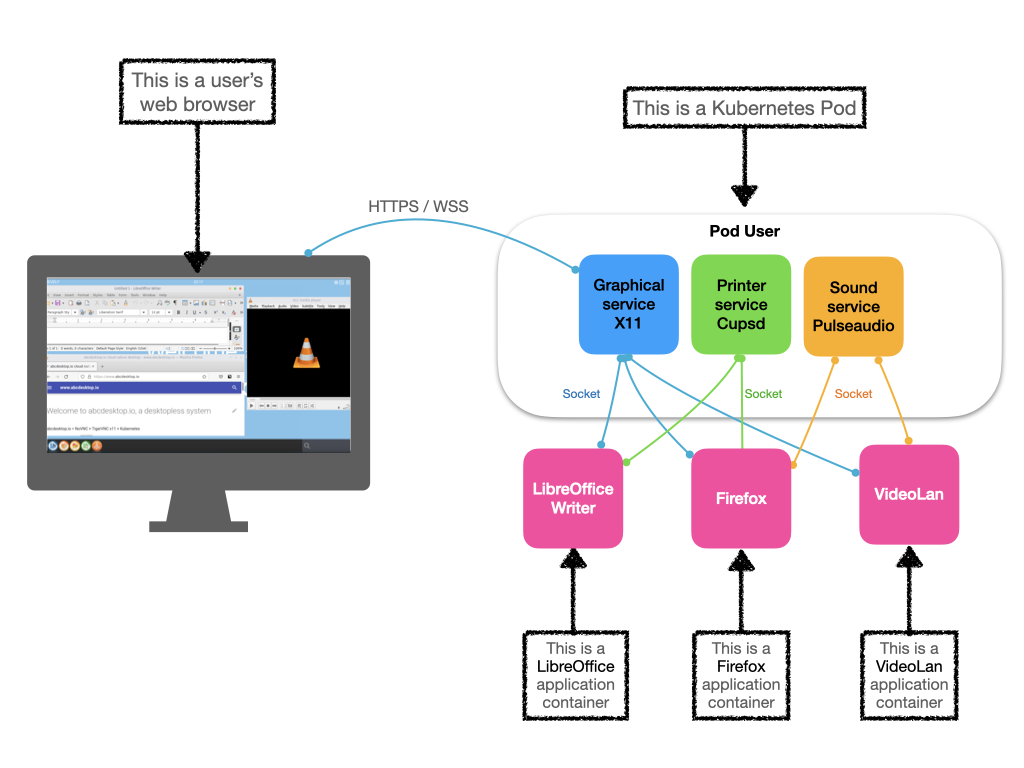
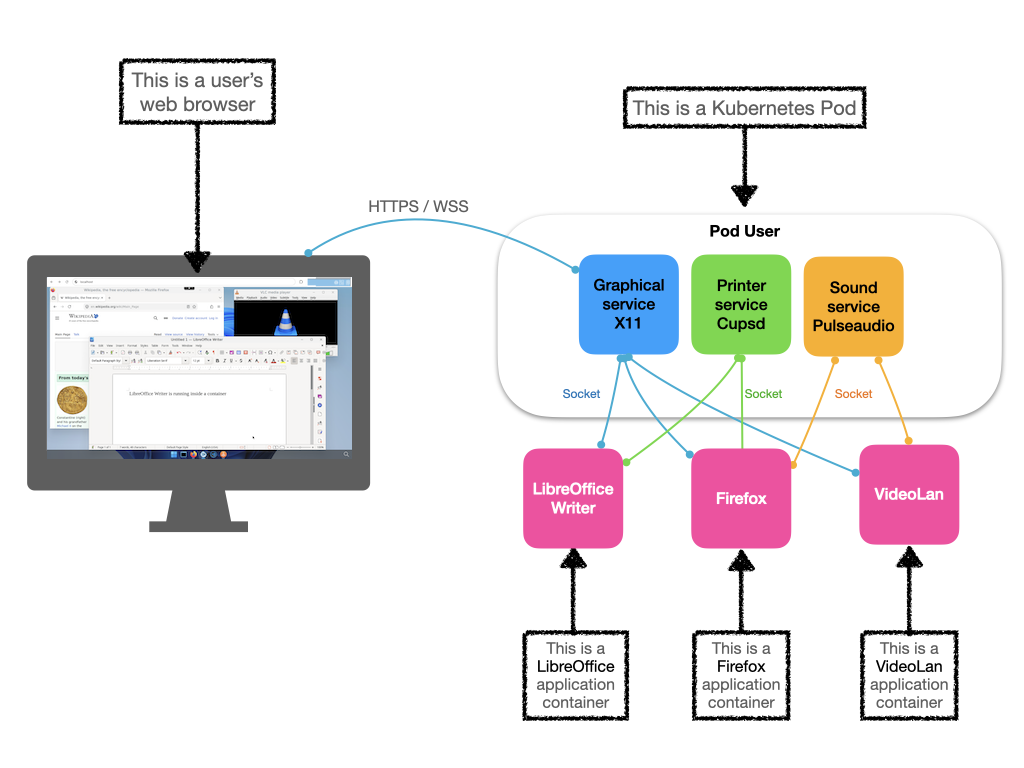
update for 4.4

Changed region(s): [[0.0312, 0.3438, 0.3438, 0.625]]

diff --git a/opsdocs/docs/index.md b/opsdocs/docs/index.md
@@ -34,7 +34,7 @@ This flexible working environment simplifies usage like
 
 With abcdesktop, you can take advantage of all the power of your Kubernetes cluster for your virtual workstations. You can distribute user applications as `pods` or as `ephemeral containers` on all cluster nodes.
 
-![abcdesktopuserpodnvidia](img/abcdesktopkubernetesclusterwithnvidiapod.png)
+![abcdesktopuserpodnvidia](img/abcdesktopkubernetescluster.png)
 
 
 ## Quick online preview latest release {{ abcdesktop.latest_release }}